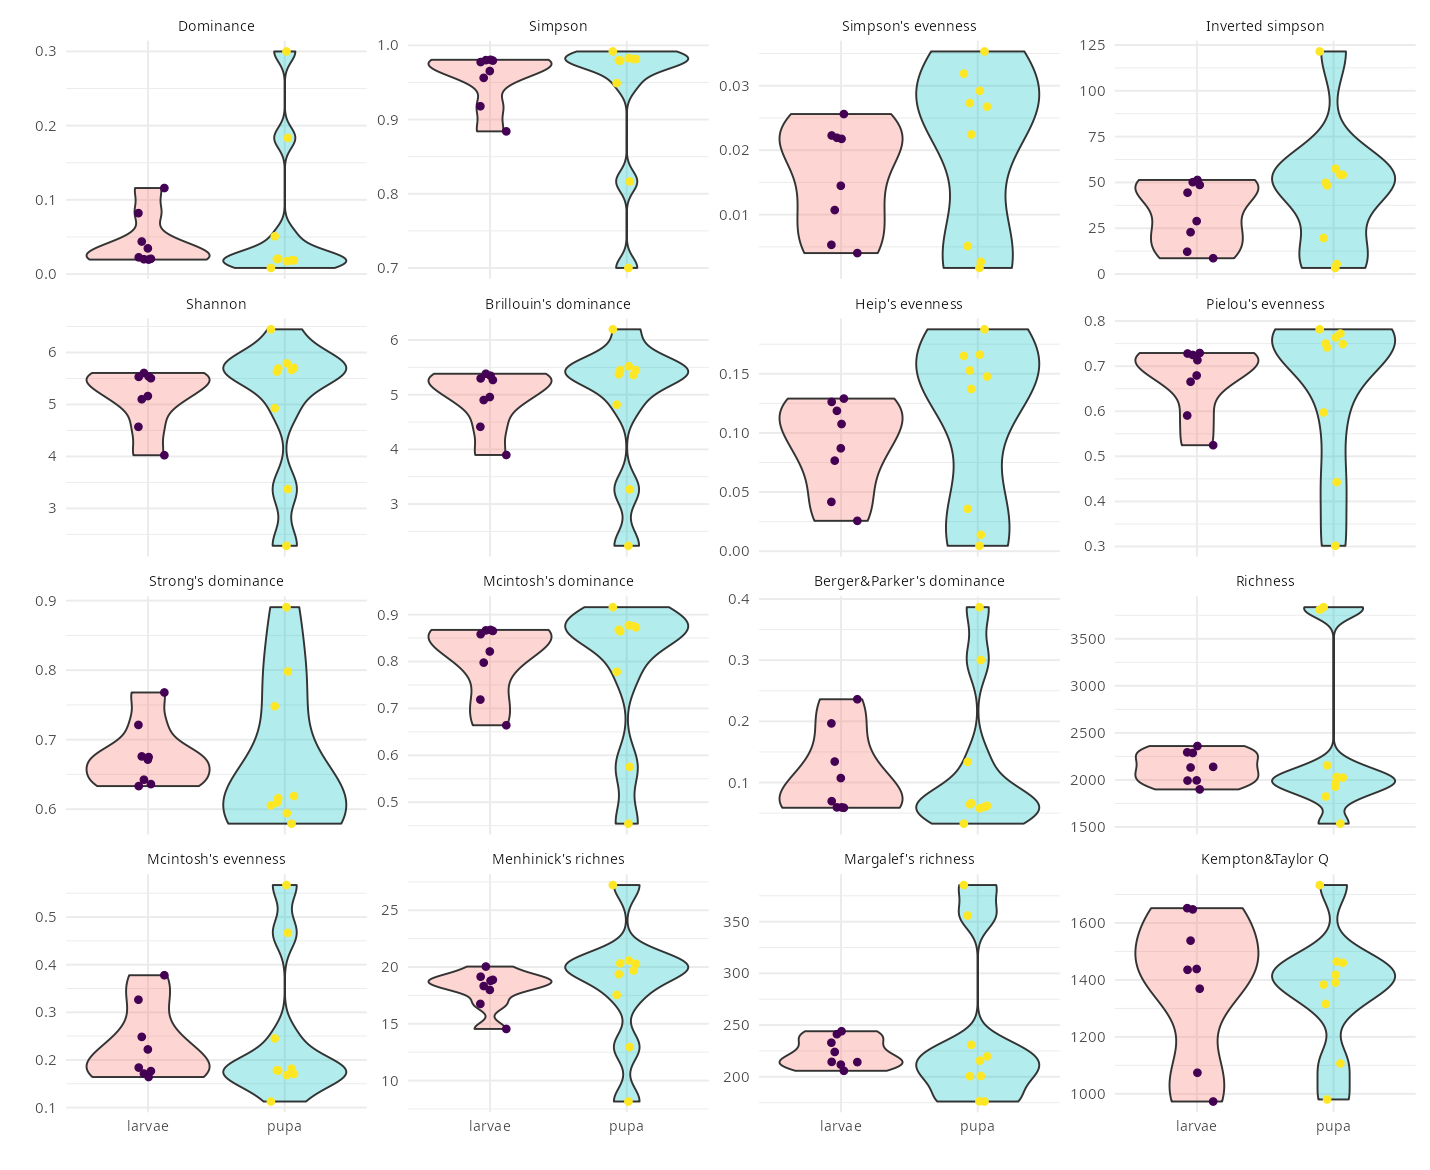
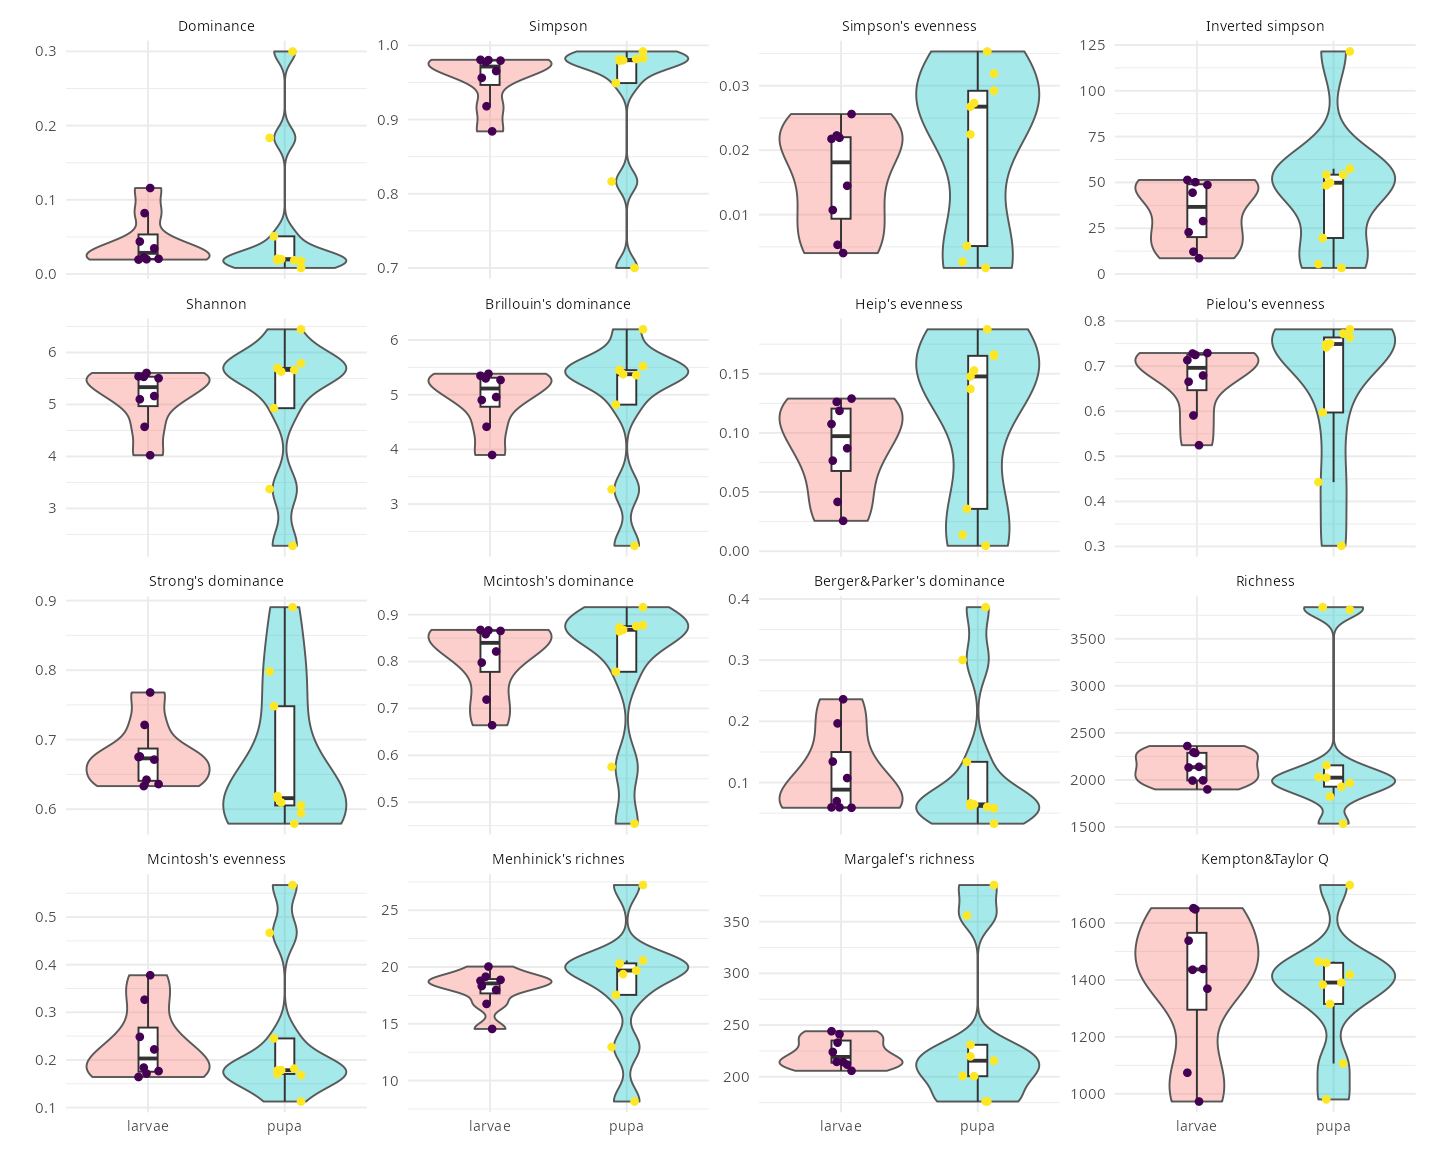
Show 30 taxa on the chord plot and fix alpha and cluster2d
Draw a boxplot inside each alpha-diversity violin. Plot df2clust2d
means on a real log10 axis with group names as axis titles, and
render the chord gallery with 30 taxa.

diff --git a/README.md b/README.md
@@ -72,7 +72,7 @@ Figures below are rendered from the bundled honey-bee brood reports.
 
 <img src="img/cluster1.png" alt="Taxon dendrogram" width="480"><img src="img/cluster2.png" alt="Sample dendrogram" width="420">
 
-`df2clust2d()` — mean abundance in two groups (pupa vs the rest).
+`df2clust2d()` — mean abundance in two groups on a log10 scale (pupa vs larvae).
 
 <img src="img/cluster2d.png" alt="Two-group cluster scatter" width="720">
 
